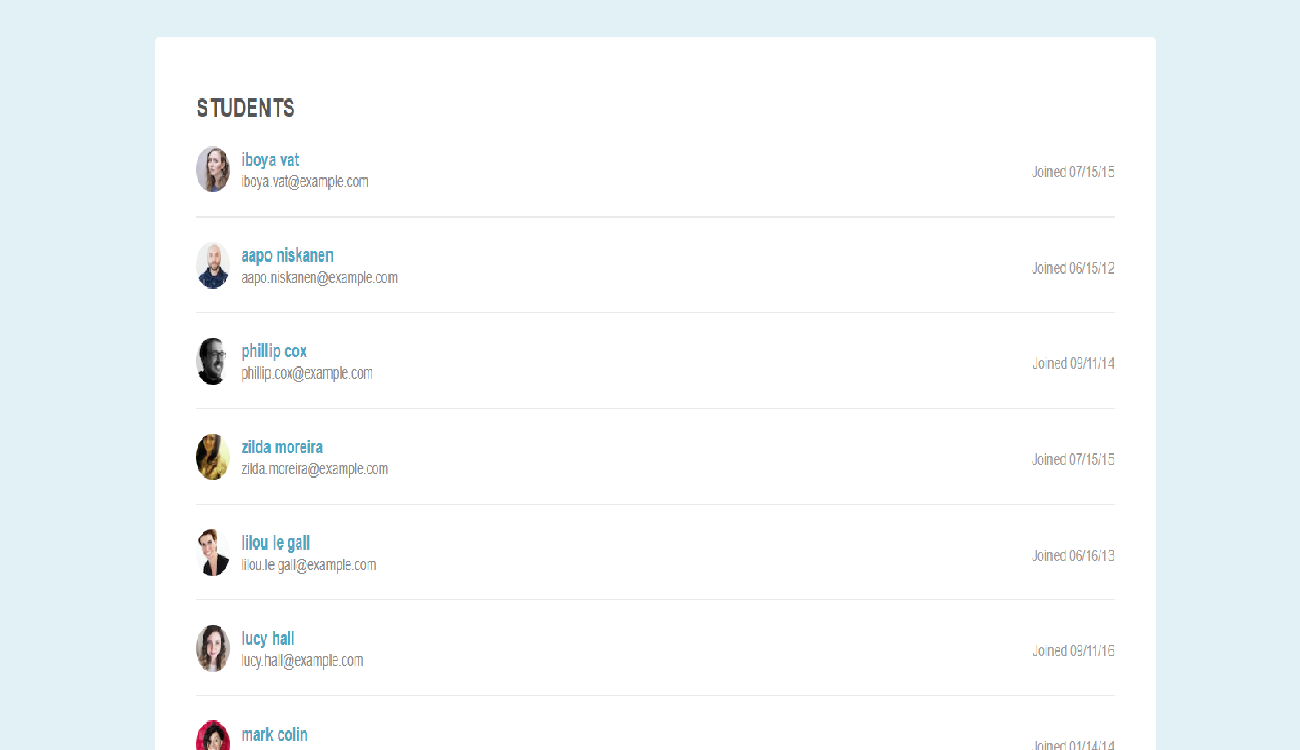
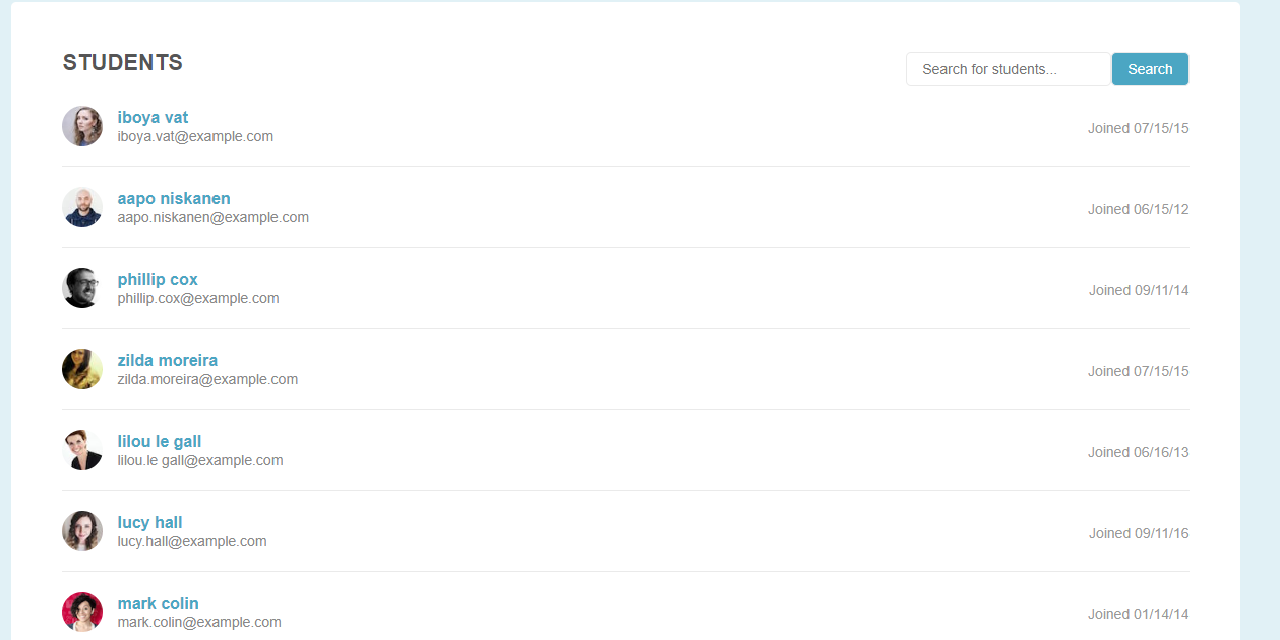
update

diff --git a/_portfolio/pagination-and-content-filter.md b/_portfolio/pagination-and-content-filter.md
@@ -7,4 +7,4 @@ image: img/screenshot_2.png
 date: 2019-7-1 12:00:00 -0400
 description: This is the second of ten projects for the 🏡 Treehouse TechDegree Full Stack JavaScript.
 ---
-Second project for the Treehouse Full-Stack JavaScript Techdegree. Single-paged app that displays a list of users that are hard coded into the HTML. It then uses JavaScript to display ten users at a time a paginates it. When the links at the bottom are clicked the corresponding page is displayed. Also alows the user to filter through names with a search bar.
+I created a single-paged app that displays a list of users that are hard coded into the HTML. Without JavaScript, this page displays a long list of students. I have enhanced the usability of the page by using unobtrusive JavaScript to dynamically divide the list into "pages". Each 'page' now only displays 10 students at a time. When the links at the bottom are clicked, the corresponding page is displayed. Also alows the user to filter through names with a search bar. 
